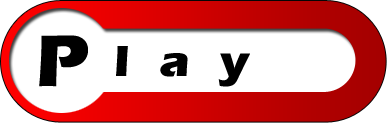
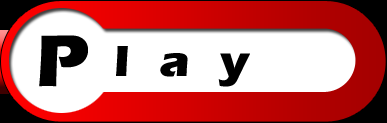
nouvelles images , toutes belles, merci Freddy !

Changed region(s): [[0.0, 0.0, 1.0, 1.0], [0.0, 0.0, 0.155, 0.4146]]

diff --git a/src/polyFever/module/affichage/DessinMenu.java b/src/polyFever/module/affichage/DessinMenu.java
@@ -579,8 +579,8 @@ public class DessinMenu {
 				
 				-1.0f,1.0f,1.0f,1.0f,1.0f,0.0f,0.0f, // Titre menu
 				1.0f,1.0f,1.0f,1.0f,1.0f,1.0f,0.0f,
-				1.0f,0.67f,1.0f,1.0f,1.0f,1.0f,1.0f,
-				-1.0f,0.67f,1.0f,1.0f,1.0f,0.0f,1.0f
+				1.0f,0.6333f,1.0f,1.0f,1.0f,1.0f,1.0f,
+				-1.0f,0.6333f,1.0f,1.0f,1.0f,0.0f,1.0f
 		};
 		
 		addTabToTabVertex(tabVertexMenu);
